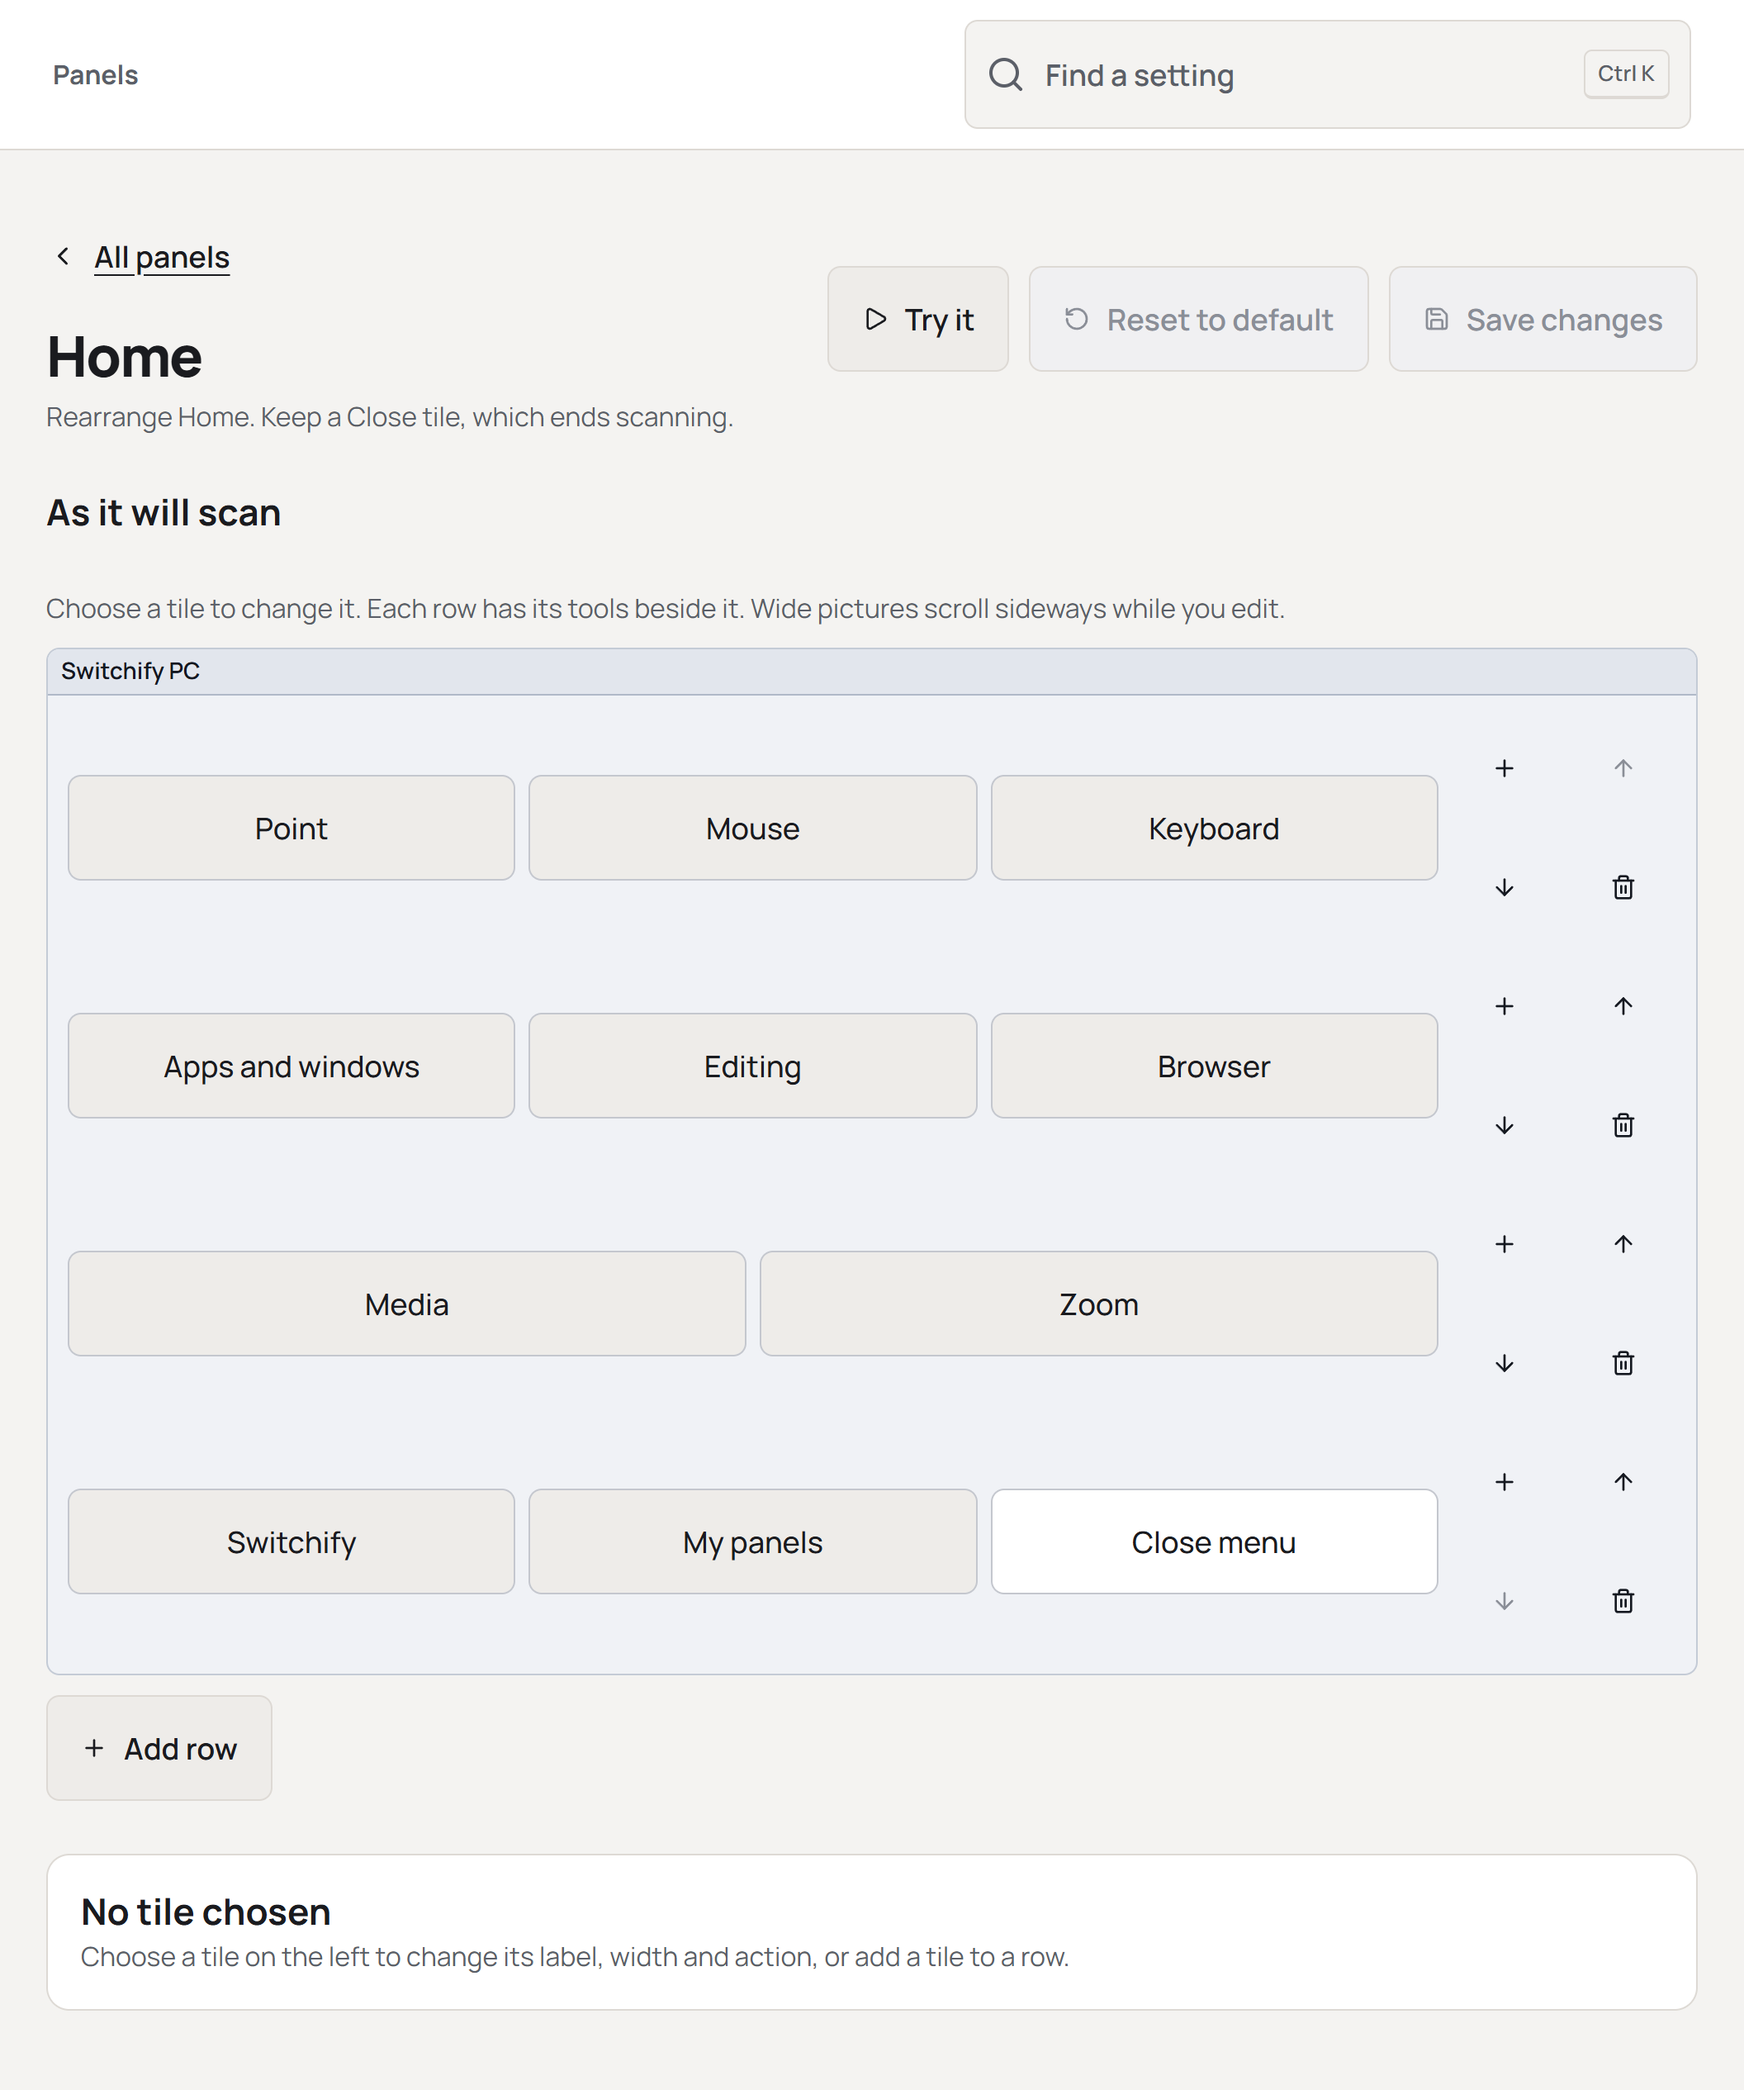
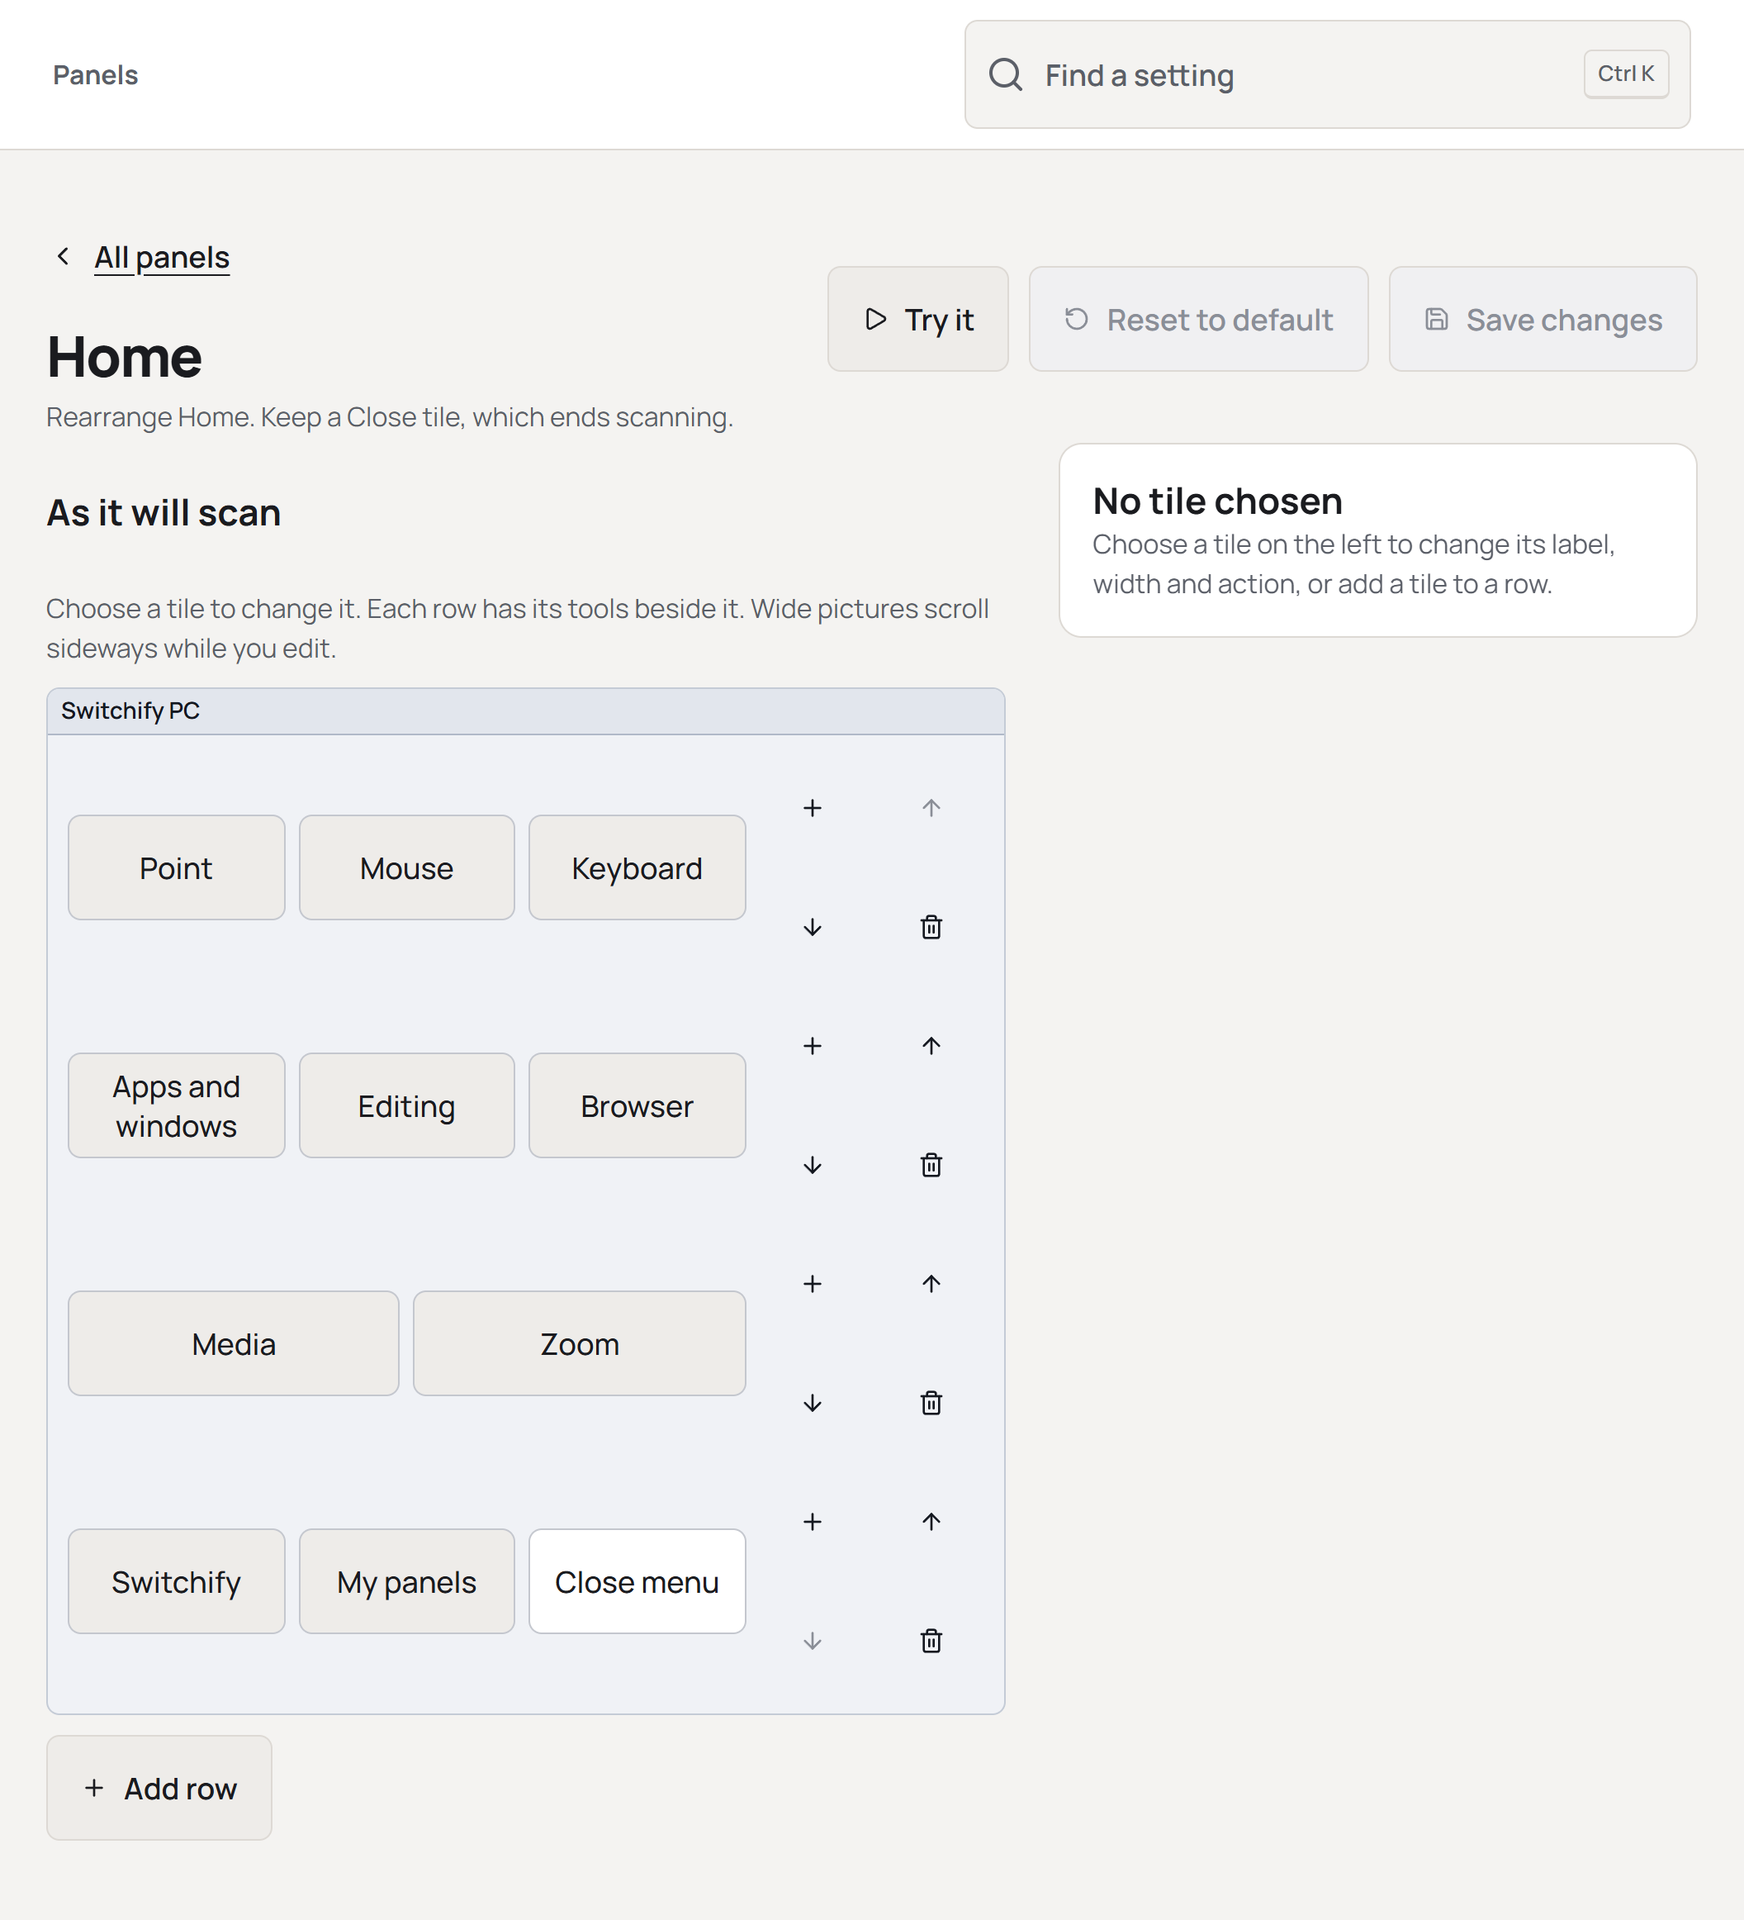
Keep Find shortcuts within their context and clear the inspector toolbar

diff --git a/src/ui/app.css b/src/ui/app.css
@@ -442,7 +442,7 @@ section[data-found], div[data-found]:not(.tile) { padding: 10px; margin: -10px; 
 .btn.panel-editor-tile em { color: var(--muted); font-style: italic; font-weight: 400; }
 
 .panel-editor-picture h2, .panel-grid-editor h2 { margin-bottom: 4px; }
-.panel-inspector { position: sticky; top: 0; max-height: 100dvh; overflow: auto; border: 1px solid var(--border); border-radius: var(--radius-card); padding: 20px; background: var(--surface); }
+.panel-inspector { position: sticky; top: 108px; max-height: calc(100dvh - 124px); overflow: auto; border: 1px solid var(--border); border-radius: var(--radius-card); padding: 20px; background: var(--surface); }
 .panel-inspector-empty { color: var(--muted); }
 .panel-inspector-empty h2 { color: var(--text); }
 .tile-inspector .field { margin-top: 16px; }
@@ -458,8 +458,8 @@ section[data-found], div[data-found]:not(.tile) { padding: 10px; margin: -10px; 
 .btn.action-option:hover { background: var(--surface-muted); }
 .btn.action-option[aria-pressed="true"] { box-shadow: inset 4px 0 0 var(--scan); font-weight: 600; }
 .btn.action-option small { color: var(--muted); }
-@media (max-width: 1000px) { .panel-editor-layout { grid-template-columns: 1fr; } .panel-inspector { position: static; } }
-@container page (max-width: 1000px) { .panel-editor-layout { grid-template-columns: 1fr; } .panel-inspector { position: static; } }
+@media (max-width: 1000px) { .panel-editor-layout { grid-template-columns: 1fr; } .panel-inspector { position: static; max-height: none; overflow: visible; } }
+@container page (max-width: 800px) { .panel-editor-layout { grid-template-columns: 1fr; } .panel-inspector { position: static; max-height: none; overflow: visible; } }
 
 .btn.profile-row { display: grid; grid-template-columns: auto minmax(0, 1fr) auto; align-items: center; justify-content: stretch; gap: 16px; width: 100%; min-height: 120px; border-color: var(--border); border-radius: var(--radius-card); padding: 18px; color: inherit; background: var(--surface); font-weight: 400; text-align: left; }
 .btn.profile-row:hover { background: var(--surface-muted); }

diff --git a/src/App.test.tsx b/src/App.test.tsx
@@ -970,6 +970,21 @@ describe("Switchify PC shell", () => {
       startup.focus();
       fireEvent.keyDown(startup, { key: "k", [modifier]: true });
       expect(find()).toHaveFocus();
+      startup.focus();
+      startup.addEventListener("keydown", (event) => event.preventDefault(), { once: true });
+      fireEvent.keyDown(startup, { key: "k", [modifier]: true });
+      expect(startup).toHaveFocus();
+    });
+
+    it("keeps the Find shortcut inside an open profile dialog", async () => {
+      render(<App />);
+      await screen.findByRole("heading", { name: "Switchify PC" });
+      fireEvent.click(screen.getByRole("button", { name: "Mobile" }));
+      fireEvent.click(await screen.findByRole("button", { name: "New profile" }));
+      const name = screen.getByRole("textbox", { name: "Profile name" });
+      name.focus();
+      fireEvent.keyDown(name, { key: "k", ctrlKey: true });
+      expect(name).toHaveFocus();
     });
 
     it("opens the exact setting from a common task on Home", async () => {

diff --git a/src/App.tsx b/src/App.tsx
@@ -815,10 +815,12 @@ export function App() {
   jumpRef.current = jump;
   useEffect(() => {
     const onKey = (event: KeyboardEvent) => {
+      const target = event.target instanceof Element ? event.target : null;
+      if (event.defaultPrevented || event.isComposing || target?.closest('[role="dialog"], [role="alertdialog"], .capture-dialog')) return;
       const shortcut = event.key.toLowerCase() === "k" && (event.ctrlKey || event.metaKey) && !event.altKey && !event.shiftKey;
       const slash = event.key === "/" && !event.ctrlKey && !event.metaKey && !event.altKey;
       if (!shortcut && !slash) return;
-      if (slash && (event.target as HTMLElement | null)?.closest("input, select, textarea, [contenteditable]")) return;
+      if (slash && target?.closest("input, select, textarea, [contenteditable]")) return;
       event.preventDefault();
       findRef.current?.focus();
     };
